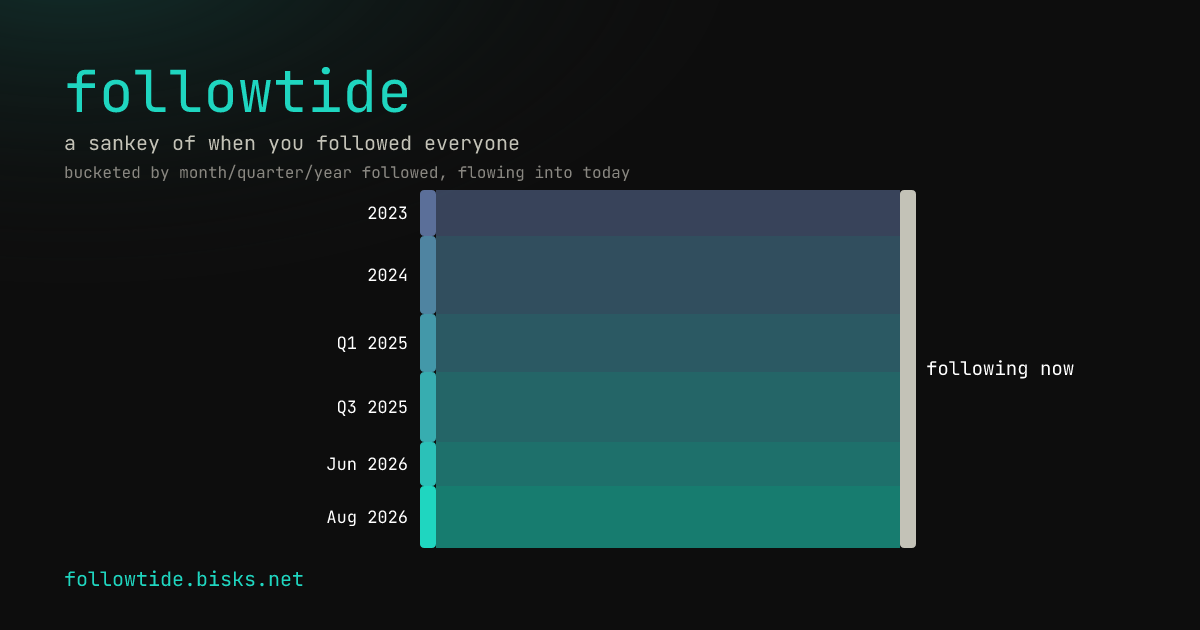
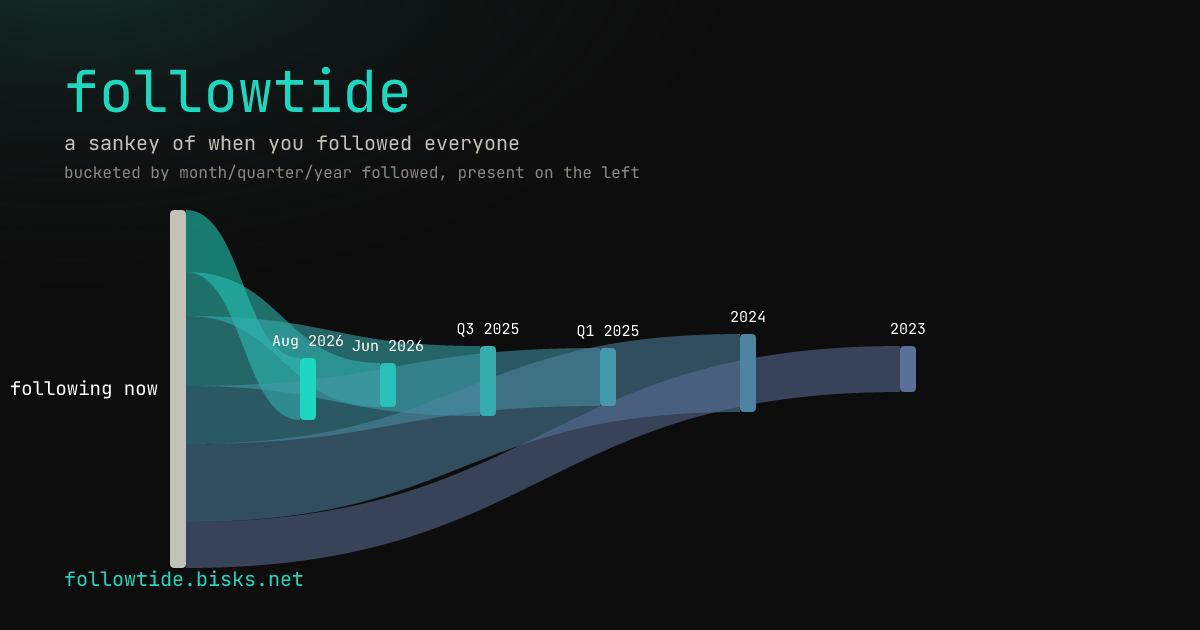
buildthis: followtide (@vibecode.rodeo)

diff --git a/sites/followtide/public/app.js b/sites/followtide/public/app.js
@@ -85,14 +85,14 @@ function bucketOf(date, granularity) {
   const y = date.getUTCFullYear();
   const m = date.getUTCMonth();
   if (granularity === "year") {
-    return { key: `${y}`, label: `${y}`, sortKey: y * 12 };
+    return { key: `${y}`, label: `${y}`, sortKey: y * 12, date: new Date(Date.UTC(y, 0, 1)) };
   }
   if (granularity === "quarter") {
     const q = Math.floor(m / 3) + 1;
-    return { key: `${y}-Q${q}`, label: `Q${q} ${y}`, sortKey: y * 12 + (q - 1) * 3 };
+    return { key: `${y}-Q${q}`, label: `Q${q} ${y}`, sortKey: y * 12 + (q - 1) * 3, date: new Date(Date.UTC(y, (q - 1) * 3, 1)) };
   }
   const label = date.toLocaleString("en-US", { month: "short", year: "numeric", timeZone: "UTC" });
-  return { key: `${y}-${String(m + 1).padStart(2, "0")}`, label, sortKey: y * 12 + m };
+  return { key: `${y}-${String(m + 1).padStart(2, "0")}`, label, sortKey: y * 12 + m, date: new Date(Date.UTC(y, m, 1)) };
 }
 
 function buildBuckets(follows) {
@@ -107,7 +107,7 @@ function buildBuckets(follows) {
     const b = bucketOf(f.date, granularity);
     let entry = map.get(b.key);
     if (!entry) {
-      entry = { key: b.key, label: b.label, sortKey: b.sortKey, count: 0, dids: [] };
+      entry = { key: b.key, label: b.label, sortKey: b.sortKey, date: b.date, count: 0, dids: [] };
       map.set(b.key, entry);
     }
     entry.count++;
@@ -140,7 +140,7 @@ function buildSankeyData(buckets) {
   const n = buckets.length;
   buckets.forEach((b, i) => {
     const t = n > 1 ? i / (n - 1) : 1;
-    nodes.push({ id: b.key, label: b.label, order: i, value: b.count, dids: b.dids, colorT: t });
+    nodes.push({ id: b.key, label: b.label, order: i, value: b.count, dids: b.dids, colorT: t, date: b.date });
     links.push({ source: b.key, target: "sink", value: b.count, colorT: t });
   });
   const total = buckets.reduce((a, b) => a + b.count, 0);
@@ -192,23 +192,59 @@ function renderSankey(nodeDefs, linkDefs, onBucketClick) {
   const nodeColor = (d) => (d.isSink ? colorVar("root-fill") : tideColor(d.colorT, oldHex, newHex));
   const linkColor = (d) => tideColor(d.colorT, oldHex, newHex);
 
-  const W = 860, H = Math.max(420, 30 * nodeDefs.length);
-  svg.attr("viewBox", `0 0 ${W} ${H}`);
-  const margin = { top: 20, right: 170, bottom: 10, left: 100 };
+  const nodeW = 14;
+  const minGap = 4;
+  const baseW = 860;
+  const H = Math.max(420, 30 * nodeDefs.length);
+  const margin = { top: 20, right: 60, bottom: 46, left: 140 };
   const sankeyLayout = d3
     .sankey()
     .nodeId((d) => d.id)
-    .nodeWidth(14)
+    .nodeWidth(nodeW)
     .nodePadding(H > 900 ? 3 : 8)
     .nodeSort((a, b) => a.order - b.order)
     .nodeAlign(d3.sankeyLeft)
-    .extent([[margin.left, margin.top], [W - margin.right, H - margin.bottom]]);
+    .extent([[margin.left, margin.top], [baseW - margin.right, H - margin.bottom]]);
 
   const graph = sankeyLayout({
     nodes: nodeDefs.map((d) => Object.assign({}, d)),
     links: linkDefs.map((d) => Object.assign({}, d)),
   });
-  const maxDepth = d3.max(graph.nodes, (d) => d.depth);
+
+  // d3-sankey only sees a fan-in graph (every cohort feeds the one sink), so
+  // its own depth calculation gives just two columns. Replace the x it
+  // picked with real calendar positions instead: "following now" pinned at
+  // the left edge, each cohort placed however far back its date sits on an
+  // actual time scale reading present-to-earliest, left to right. The y0/y1
+  // it already computed (node heights, vertical stacking, link offsets) are
+  // untouched — only x moves.
+  const now = new Date();
+  const sinkNode = graph.nodes.find((d) => d.isSink);
+  const bucketNodes = graph.nodes.filter((d) => !d.isSink);
+  const earliest = d3.min(bucketNodes, (d) => d.date) || now;
+  const trackStart = margin.left + nodeW + 24;
+  const xScale = d3.scaleTime().domain([now, earliest]).range([trackStart, baseW - margin.right]);
+
+  sinkNode.x0 = margin.left;
+  sinkNode.x1 = margin.left + nodeW;
+
+  // Real time positions can pack adjacent months closer than the bars are
+  // wide (a long history compresses its recent, monthly-granularity end) —
+  // sweep newest-to-oldest and nudge a node right only far enough to clear
+  // the previous one, so bars never overlap but otherwise sit exactly where
+  // their date puts them.
+  const newToOld = bucketNodes.slice().sort((a, b) => b.date - a.date);
+  let prevX1 = trackStart;
+  newToOld.forEach((d) => {
+    const x0 = Math.max(xScale(d.date), prevX1);
+    d.x0 = x0;
+    d.x1 = x0 + nodeW;
+    prevX1 = d.x1 + minGap;
+  });
+
+  const W = Math.max(baseW, prevX1 + margin.right);
+  svg.attr("viewBox", `0 0 ${W} ${H}`);
+
   const linkGen = d3.sankeyLinkHorizontal();
 
   const linkSel = svg
@@ -254,35 +290,66 @@ function renderSankey(nodeDefs, linkDefs, onBucketClick) {
       if (!d.isSink && onBucketClick) onBucketClick(d);
     });
 
-  function labelX(d) {
-    if (d.depth === maxDepth) return d.x1 + 10;
-    return d.x0 - 8;
-  }
-  function labelAnchor(d) {
-    return d.depth === maxDepth ? "start" : "end";
-  }
-
+  // "following now" is the one node worth always labeling inline — it's
+  // alone at the left edge. Every cohort's exact label/count is a hover (or
+  // click, or the table view) away; drawing them all inline too would
+  // collide wherever real-time spacing packs bars close together.
   svg
-    .append("g")
-    .selectAll("text.node-label")
-    .data(graph.nodes)
-    .join("text")
+    .append("text")
     .attr("class", "node-label")
-    .attr("x", labelX)
-    .attr("y", (d) => (d.y0 + d.y1) / 2 - 3)
-    .attr("text-anchor", labelAnchor)
-    .text((d) => d.label);
-
+    .attr("x", sinkNode.x0 - 10)
+    .attr("y", (sinkNode.y0 + sinkNode.y1) / 2 - 3)
+    .attr("text-anchor", "end")
+    .text(sinkNode.label);
   svg
-    .append("g")
-    .selectAll("text.node-value")
-    .data(graph.nodes)
-    .join("text")
+    .append("text")
     .attr("class", "node-value")
-    .attr("x", labelX)
-    .attr("y", (d) => (d.y0 + d.y1) / 2 + 11)
-    .attr("text-anchor", labelAnchor)
-    .text((d) => fmt(d.value));
+    .attr("x", sinkNode.x0 - 10)
+    .attr("y", (sinkNode.y0 + sinkNode.y1) / 2 + 11)
+    .attr("text-anchor", "end")
+    .text(fmt(sinkNode.value));
+
+  // A real time axis under the chart: present at the left tick, oldest
+  // cohort at the right. Ticks skip labels that would land too close to the
+  // previous one instead of hard-capping how many buckets can show — dense
+  // stretches just thin out their own labels.
+  const axisY = H - margin.bottom + 20;
+  const axis = svg.append("g").attr("class", "time-axis");
+  axis
+    .append("line")
+    .attr("x1", margin.left)
+    .attr("x2", W - margin.right)
+    .attr("y1", axisY)
+    .attr("y2", axisY)
+    .attr("stroke", colorVar("gridline"));
+
+  function addTick(cx, label) {
+    axis
+      .append("line")
+      .attr("x1", cx)
+      .attr("x2", cx)
+      .attr("y1", axisY)
+      .attr("y2", axisY + 5)
+      .attr("stroke", colorVar("gridline"));
+    axis
+      .append("text")
+      .attr("x", cx)
+      .attr("y", axisY + 8)
+      .attr("transform", `rotate(-40 ${cx} ${axisY + 8})`)
+      .attr("text-anchor", "end")
+      .attr("font-size", "10px")
+      .attr("fill", colorVar("text-muted"))
+      .text(label);
+  }
+
+  addTick((sinkNode.x0 + sinkNode.x1) / 2, "now");
+  let lastLabelX = -Infinity;
+  newToOld.forEach((d) => {
+    const cx = (d.x0 + d.x1) / 2;
+    if (cx - lastLabelX < 42) return;
+    addTick(cx, d.label);
+    lastLabelX = cx;
+  });
 }
 
 function renderTable(buckets, granularity) {
@@ -380,7 +447,8 @@ function render() {
   els.caption.textContent =
     `Every app.bsky.graph.follow record currently in @${state.profile.handle}'s repo, bucketed by ${granNoun} followed — ` +
     `accounts since unfollowed don't appear, since only the current record set survives in the repo. ` +
-    `Click a band to see who's in it. Bucket width widens automatically (month → quarter → year) once the timeline gets long enough that month-by-month bars would stop being readable.`;
+    `The x-axis is real calendar time: "following now" sits at the present on the left, and each cohort sits however far back its ${granNoun} actually was, so the bands thin out toward the right the further back the account's history goes. ` +
+    `Click a band to see who's in it, or hover any band for its exact count. Bucket width widens automatically (month → quarter → year) once the timeline gets long enough that month-by-month bars would stop being readable.`;
 
   els.bucketDetail.classList.remove("show");
 

diff --git a/sites/followtide/public/index.html b/sites/followtide/public/index.html
@@ -6,22 +6,22 @@
     <title>followtide — a sankey of when you followed everyone</title>
     <meta
       name="description"
-      content="Paste a Bluesky handle: followtide sankeys everyone you currently follow, bucketed by the month you followed them, flowing into where you stand today."
+      content="Paste a Bluesky handle: followtide sankeys everyone you currently follow onto a real time axis, bucketed by the month you followed them, present on the left."
     />
     <meta property="og:title" content="followtide — a sankey of when you followed everyone" />
     <meta
       property="og:description"
-      content="Every account you currently follow, grouped by the month you followed them, flowing into one 'following now' node — a Minard-style tide of your own follow history."
+      content="Every account you currently follow, grouped by the month you followed them and placed on a real time axis, 'following now' at the present on the left — a Minard-style tide of your own follow history."
     />
     <meta property="og:url" content="https://followtide.bisks.net/" />
     <meta property="og:type" content="website" />
     <meta property="og:image" content="https://followtide.bisks.net/og.png" />
     <meta property="og:image:width" content="1200" />
     <meta property="og:image:height" content="630" />
-    <meta property="og:image:alt" content="followtide: a sankey diagram of follows bucketed by the month they happened, flowing into 'following now'." />
+    <meta property="og:image:alt" content="followtide: a sankey diagram of follows bucketed by the month they happened, on a time axis reading present to past, left to right." />
     <meta name="twitter:card" content="summary_large_image" />
     <meta name="twitter:title" content="followtide — a sankey of when you followed everyone" />
-    <meta name="twitter:description" content="Your current follows, bucketed by the month you followed them, sankeyed into where you stand today." />
+    <meta name="twitter:description" content="Your current follows, bucketed by the month you followed them, sankeyed onto a real time axis reading present to past, left to right." />
     <meta name="twitter:image" content="https://followtide.bisks.net/og.png" />
     <style>
       .viz-root {
@@ -264,9 +264,11 @@
           <h1>f<span onclick='var e=document.getElementById("handle-input");if(e){e.value="@cee.wtf";e.dispatchEvent(new Event("input",{bubbles:true}));e.dispatchEvent(new Event("change",{bubbles:true}));e.focus();}' style="cursor:pointer">o</span>llowtide</h1>
           <p class="sub">
             drop a handle and followtide sankeys everyone you currently
-            follow, bucketed by the month you followed them, flowing from the
-            past into where you stand right now. a Minard-style tide of your
-            own follow history — the newer the cohort, the brighter the band.
+            follow, bucketed by the month you followed them. "following now"
+            sits at the present on the left; each cohort sits on a real time
+            axis at however far back it happened, so the tide reads present
+            to past, left to right. a Minard-style tide of your own follow
+            history — the newer the cohort, the brighter the band.
           </p>
         </header>
 
@@ -286,7 +288,7 @@
 
           <div class="chart-card">
             <div id="chart-wrap">
-              <svg id="sankey" viewBox="0 0 860 600" role="img" aria-label="Sankey diagram of current follows bucketed by the month they were followed"></svg>
+              <svg id="sankey" viewBox="0 0 860 600" role="img" aria-label="Sankey diagram of current follows bucketed by the month they were followed, on a time axis reading present to past, left to right"></svg>
             </div>
             <div class="table-wrap" id="table-wrap"></div>
           </div>

diff --git a/apex/public/index.html b/apex/public/index.html
@@ -2003,7 +2003,7 @@
         <a class="card" href="https://followtide.bisks.net/" data-site="followtide" data-by="scoiattolo.mountainherder.xyz" data-type="tool" data-src="bot">
           <h2>followtide <span class="tag">sankey</span></h2>
           <p>
-            paste a Bluesky handle and followtide sankeys everyone you currently follow, bucketed by the month you followed them, flowing into one "following now" node — a Minard-style tide of your own follow history. @scoiattolo.mountainherder.xyz asked for it, @vibecode.rodeo flagged it up for a build.
+            paste a Bluesky handle and followtide sankeys everyone you currently follow onto a real time axis, bucketed by the month you followed them, "following now" at the present on the left — a Minard-style tide of your own follow history. @scoiattolo.mountainherder.xyz asked for it, @vibecode.rodeo flagged it up for a build.
           </p>
         </a>
         <a class="card" href="https://followwall.bisks.net/" data-site="followwall" data-by="thegodfungi.bsky.social" data-type="tool" data-src="bot">
